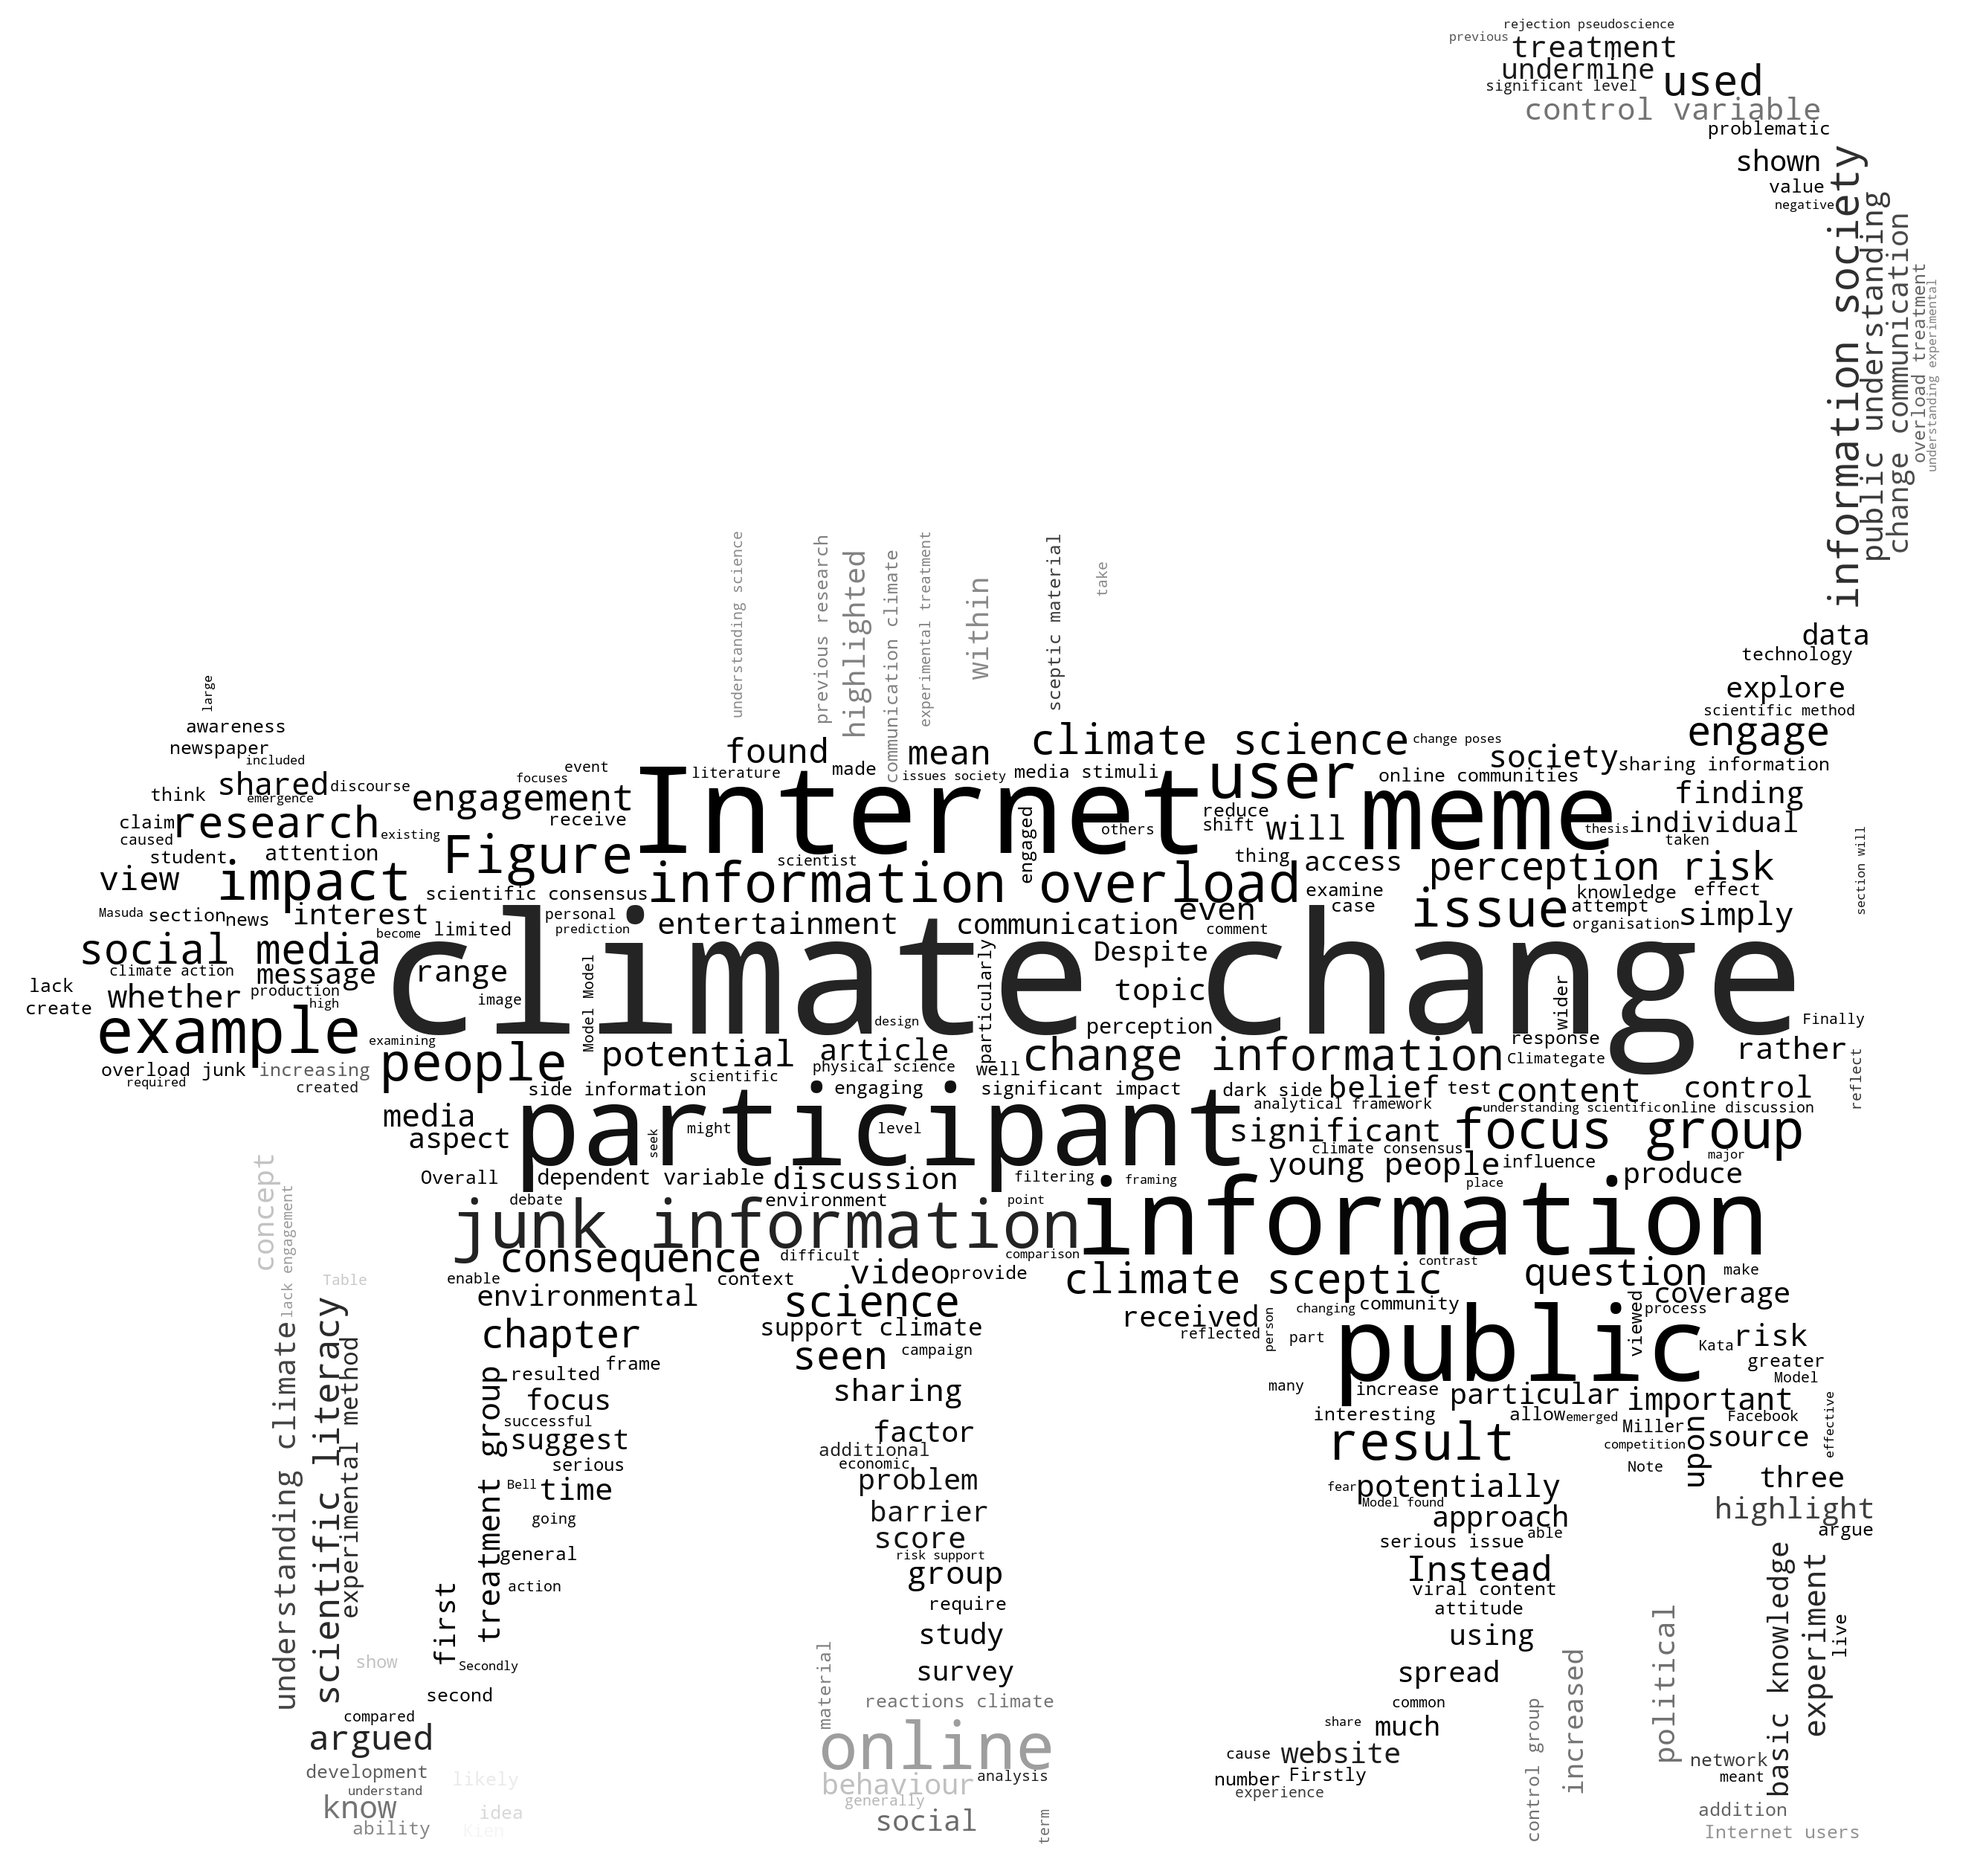
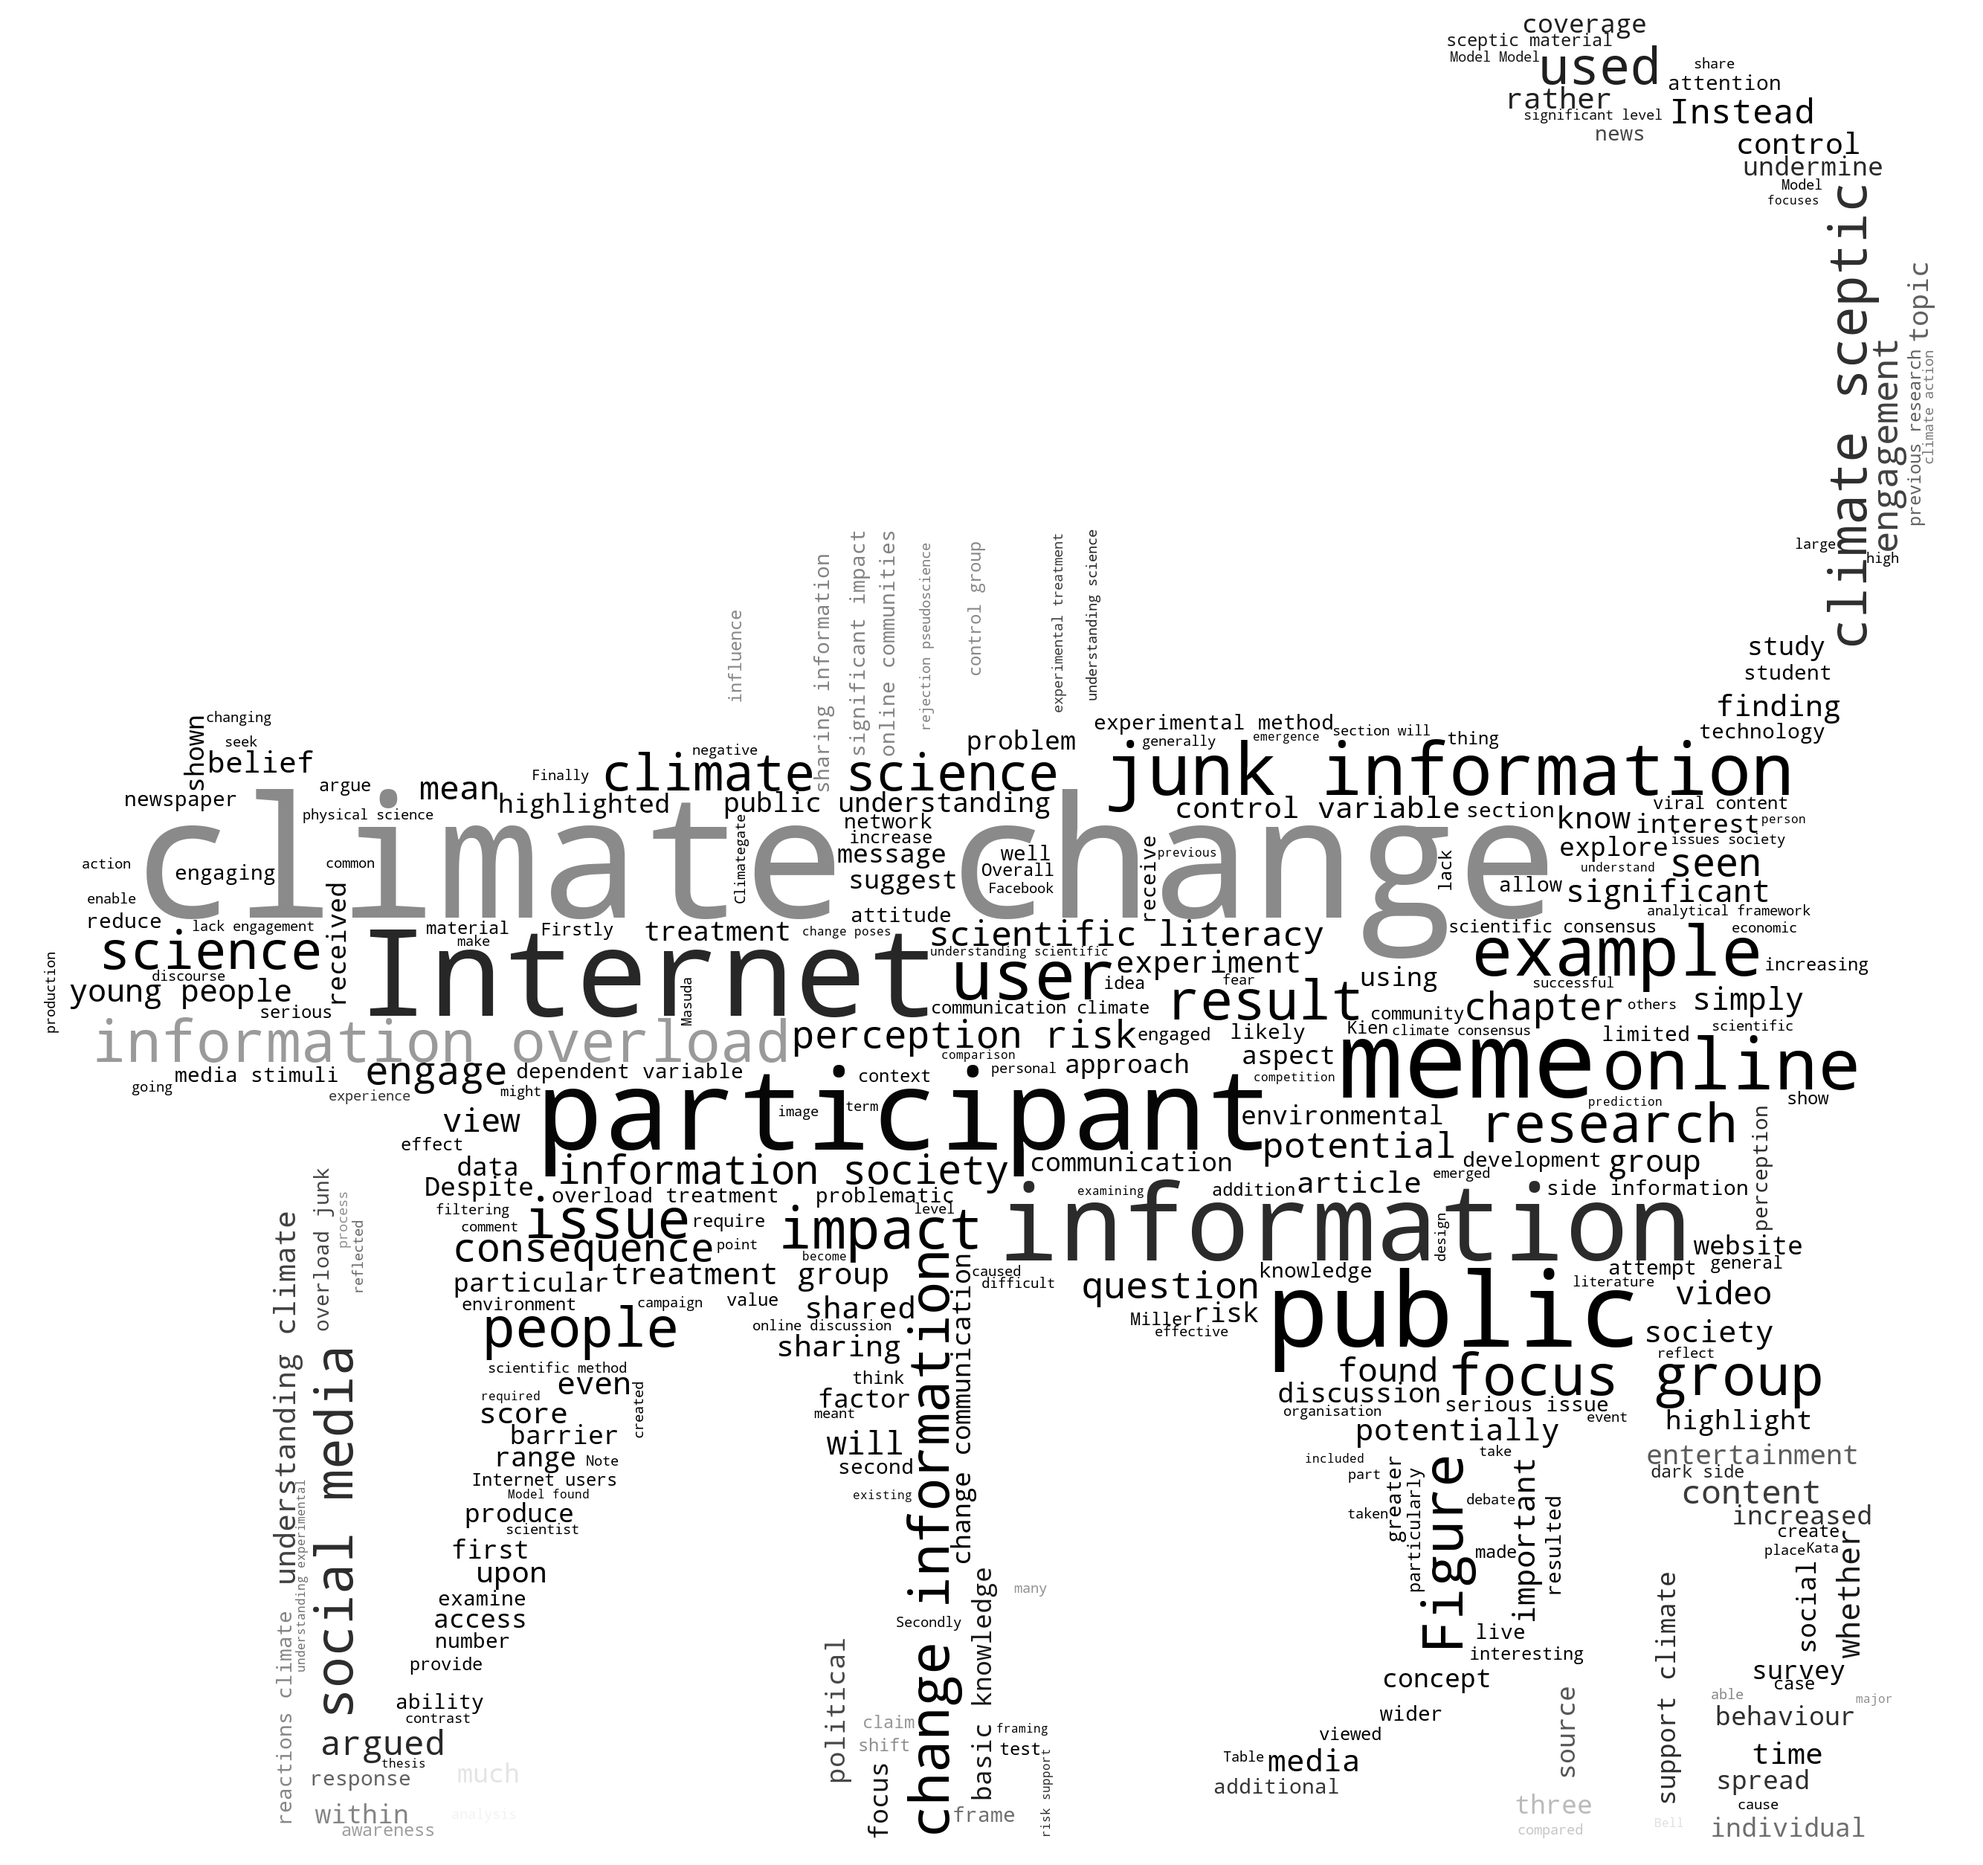
Cloud Recolour with cloud shape has issues

Changed region(s): [[0.0, 0.0, 0.9959, 0.9952], [0.6224, 0.933, 0.6847, 0.9641]]

diff --git a/word cloud generator with UI.py b/word cloud generator with UI.py
@@ -22,7 +22,7 @@ class wordCloud:
             os.makedirs(r'WordClouds')
         self.textFile = open(os.path.join(self.directory, r'Text\Corbyn Conference Speeches 2015-2019.txt'), encoding="utf-8").read()
         self.outputImage = None
-        self.Image = 'Pictures\\flag of the russian federation.png'
+        self.Image = 'Pictures\\Cat_Silhouette_PNG_Transparent_Clip_Art_Image.png'
         self.stopwords = STOPWORDS
         self.image_mask = None
         self.cloud = None
@@ -115,10 +115,12 @@ class wordCloud:
             logging.warn('No .png file selected')
             messagebox.showerror("Image File Error", "No Image File Selected")
         else:
-            self.Image = np.array(Image.open(os.path.join(self.Image)))
-            self.image_mask = self.Image.copy()
+            print(self.Image)
+            self.processedImage = np.array(Image.open(os.path.join(self.Image)))
+            self.processedImage = self.processedImage[::3, ::3]
+            self.image_mask = self.processedImage.copy()
             self.image_mask[self.image_mask.sum(axis=2)==0] = 255
-            edges = np.mean([gaussian_gradient_magnitude(self.image[:, :, i]/255., 2) for i in range(3)], axis = 0)
+            edges = np.mean([gaussian_gradient_magnitude(self.processedImage[:, :, i]/255., 2) for i in range(3)], axis = 0)
             self.image_mask[edges > 0.8] = 255
             return self.image_mask
     
@@ -127,8 +129,8 @@ class wordCloud:
             logging.warn('No .png file selected')
             messagebox.showerror("Image File Error", "No Image File Selected")
         else:
-            self.Image = np.array(Image.open(os.path.join(self.Image)))
-            self.image_colours = ImageColorGenerator(self.Image)
+            self.newImage = np.array(Image.open(os.path.join(self.Image)))
+            self.image_colours = ImageColorGenerator(self.newImage)
             self.cloud.recolor(color_func=self.image_colours)
             return self.cloud
     
@@ -155,26 +157,39 @@ class wordCloud:
         
     def previewCloud(self):   
         logging.info("Preview Cloud Selected")
-        wordCloud.generateCloud(self)
+        wordCloud.checkboxStatus(self)
+        
         if self.numberTicked == 0:
+            wordCloud.generateCloud(self)
             fig, axes = plt.subplots(1,1)
             axes.imshow(self.cloud, interpolation="bilinear")
             axes.set_axis_off()
-            
         elif self.numberTicked == 1:
-            fig, axes = plt.subplots(1, 2)
-            axes[0].imshow(self.cloud, interpolation="bilinear")
+            
             if self.recolouredCheck == 1:
+                self.image_mask = None
+                wordCloud.generateCloud(self)
+                fig, axes = plt.subplots(1, 2)
+                axes[0].imshow(self.cloud, interpolation="bilinear")
+                axes[0].set_title('Default Colours')
                 wordCloud.cloudRecolour(self)
                 axes[1].imshow(self.cloud, interpolation="bilinear")
+                axes[1].set_title('Recoloured Using Image')
                 for ax in axes:
                     ax.set_axis_off()
             else:
+                fig, axes = plt.subplots(1, 1)
                 wordCloud.cloudShape(self)
                 wordCloud.generateCloud(self)
-                axes[1].imshow(self.cloud, interpolation="bilinear")
-                for ax in axes:
-                    ax.set_axis_off()
+                axes.imshow(self.cloud, interpolation="bilinear")
+                axes.set_axis_off()
+        elif self.numberTicked == 2:
+            wordCloud.cloudShape(self)
+            fig, axes = plt.subplots(1, 1)
+            wordCloud.generateCloud(self)
+            wordCloud.cloudRecolour(self)
+            axes.imshow(self.cloud, interpolation="bilinear")
+            axes.set_axis_off()
         plt.show()
         
     def saveWordcloud(self):
